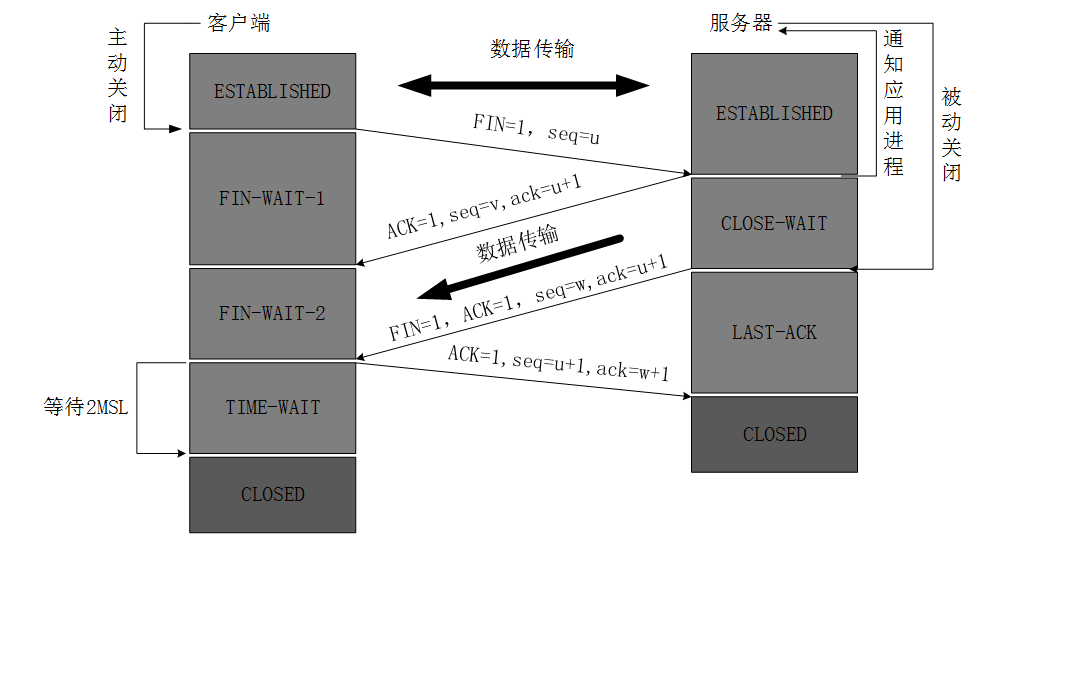
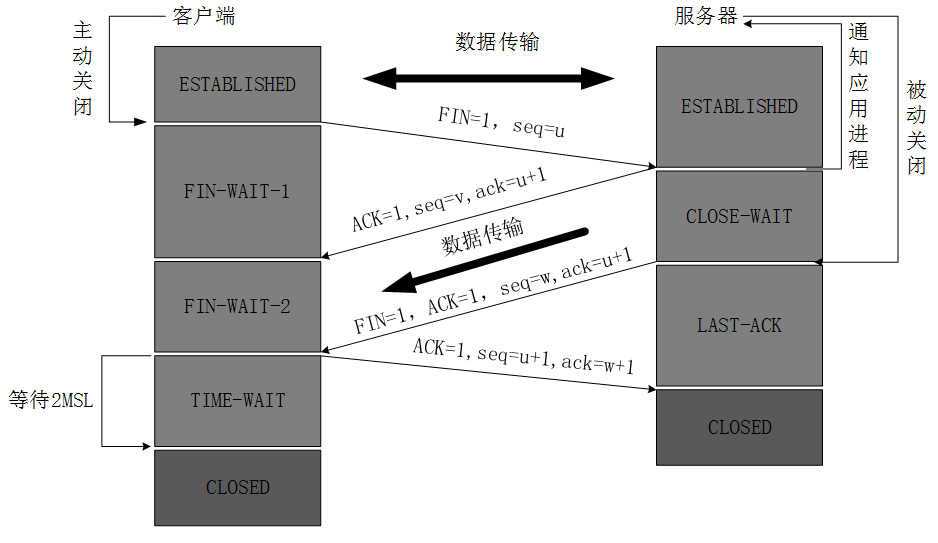
Site updated: 2021-05-04 23:29:16

Changed region(s): [[0.0309, 0.0, 0.9584, 0.9724], [0.9584, 0.1473, 0.9893, 0.3241], [0.0, 0.7072, 0.0928, 0.7661]]

diff --git a/2021/05/03/CS-network/index.html b/2021/05/03/CS-network/index.html
@@ -37,7 +37,7 @@
 <meta property="og:image" content="http://taoquanyus.cn/image/UDP_header.png">
 <meta property="og:image" content="http://taoquanyus.cn/image/CS_network2.png">
 <meta property="article:published_time" content="2021-05-03T12:13:27.000Z">
-<meta property="article:modified_time" content="2021-05-04T20:28:50.359Z">
+<meta property="article:modified_time" content="2021-05-04T21:29:03.125Z">
 <meta property="article:author" content="泉雨">
 <meta property="article:tag" content="计算机网络，计算机基础">
 <meta name="twitter:card" content="summary">
@@ -225,7 +225,7 @@
                   <i class="far fa-calendar-check"></i>
                 </span>
                 <span class="post-meta-item-text">Edited on</span>
-                <time title="Modified: 2021-05-05 04:28:50" itemprop="dateModified" datetime="2021-05-05T04:28:50+08:00">2021-05-05</time>
+                <time title="Modified: 2021-05-05 05:29:03" itemprop="dateModified" datetime="2021-05-05T05:29:03+08:00">2021-05-05</time>
               </span>
 
           
@@ -282,7 +282,7 @@
 <li>第三次握手：Client 确认了：自己发送、接收正常，对方发送、接收正常；Server 确认了：自己发送、接收正常，对方发送、接收正常</li>
 </ul>
 <h6 id="第二次握手已经传回ACK了，为什么还要传回SYN？"><a href="#第二次握手已经传回ACK了，为什么还要传回SYN？" class="headerlink" title="第二次握手已经传回ACK了，为什么还要传回SYN？"></a>第二次握手已经传回ACK了，为什么还要传回SYN？</h6><p>接收端传回发送端所发送的ACK是为了告诉客户端，我接收到的信息确实就是你所发送的信号了，这表明从客户端到服务端的通信是正常的。而回传SYN则是为了建立并确认从服务端到客户端的通信。</p>
-<h5 id="四次挥手"><a href="#四次挥手" class="headerlink" title="四次挥手"></a>四次挥手</h5><p><img style="margin: auto;" src="/image/tcp_bye.png" alt="four handwave" width="1066" height="600"></p>
+<h5 id="四次挥手"><a href="#四次挥手" class="headerlink" title="四次挥手"></a>四次挥手</h5><p><img style="margin: auto;" src="/image/tcp_bye.png" alt="four handwave" width="938" height="543"></p>
 <h6 id="为什么要四次挥手"><a href="#为什么要四次挥手" class="headerlink" title="为什么要四次挥手"></a>为什么要四次挥手</h6><p>任何一方都可以在数据传送结束后发出连接释放的通知，待对方确认后进入半关闭状态。当另一方也没有数据再发送的时候，则发出连接释放通知，对方确认后就完全关闭了TCP连接。</p>
 <h6 id="TCP-如何保证可靠传输"><a href="#TCP-如何保证可靠传输" class="headerlink" title="TCP 如何保证可靠传输"></a>TCP 如何保证可靠传输</h6><ol>
 <li>应用数据被分割成<code>TCP</code>认为最适合发送的数据块。</li>

diff --git a/index.html b/index.html
@@ -212,7 +212,7 @@
                   <i class="far fa-calendar-check"></i>
                 </span>
                 <span class="post-meta-item-text">Edited on</span>
-                <time title="Modified: 2021-05-05 04:28:50" itemprop="dateModified" datetime="2021-05-05T04:28:50+08:00">2021-05-05</time>
+                <time title="Modified: 2021-05-05 05:29:03" itemprop="dateModified" datetime="2021-05-05T05:29:03+08:00">2021-05-05</time>
               </span>
 
           

diff --git a/css/main.css b/css/main.css
@@ -1172,7 +1172,7 @@ pre .javascript .function {
 }
 .links-of-author a::before,
 .links-of-author span.exturl::before {
-  background: #ffc8e4;
+  background: #ffff2d;
   border-radius: 50%;
   content: ' ';
   display: inline-block;
